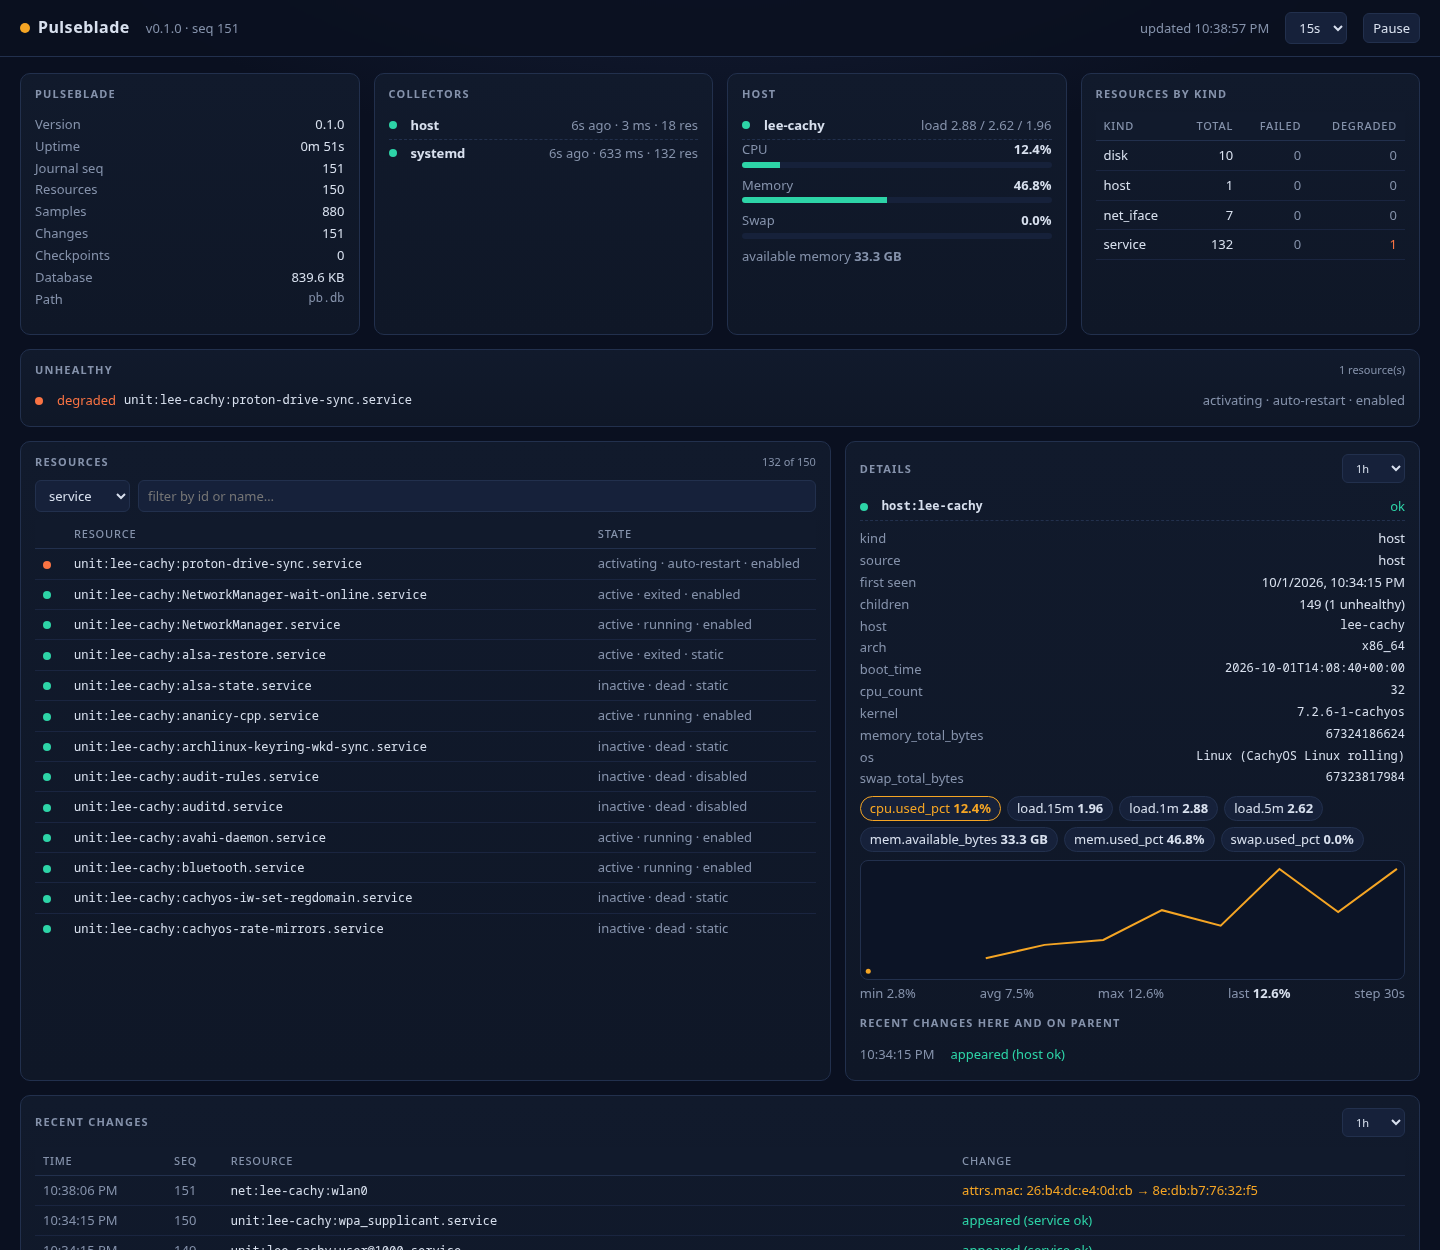
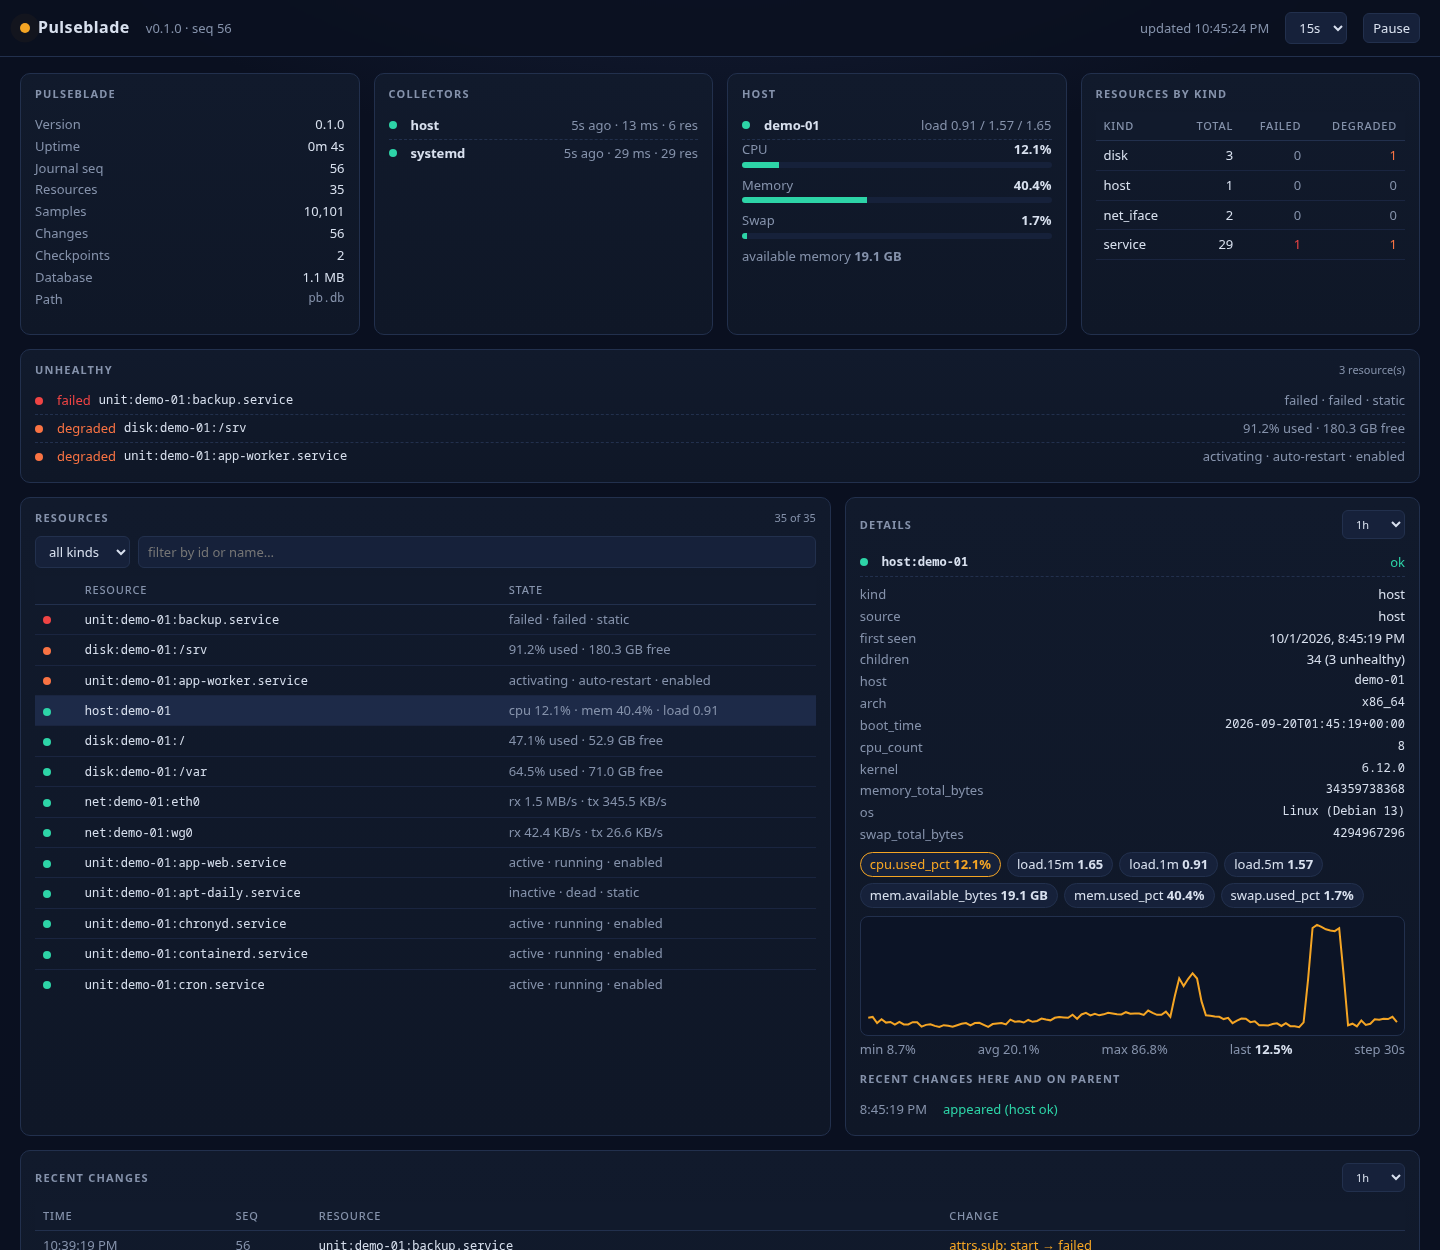
docs: replace dashboard screenshot with demo data
The previous screenshot showed a real machine. The new one is generated from examples/seed_demo; README documents how to reproduce it.

diff --git a/README.md b/README.md
@@ -117,9 +117,20 @@ The node serves a read-only, LLM-free view of the same data on its HTTP port, ne
 
 Errors are JSON `{"error": "..."}` with 400 for invalid input and 404 for unknown resources, metrics, checkpoints, or endpoints.
 
-![Pulseblade dashboard: collector status, host CPU and memory, counts by kind, unhealthy resources, a filterable resource table, resource details with a CPU sparkline, and recent changes](docs/assets/dashboard.png)
+![Pulseblade dashboard showing synthetic demo data for a fictional host demo-01: collector status, host CPU and memory, counts by kind, a failed backup service, a degraded disk and service, a filterable resource table, host details with a CPU sparkline, and recent changes](docs/assets/dashboard.png)
+
+*Synthetic demo data, not a real machine.*
 
 The dashboard shows collector status, host key metrics, counts by kind, unhealthy resources first, a filterable resource table, recent changes over a selectable window, and per-resource details with a sparkline of any metric. It refreshes every 15 seconds (pausable). Deep links work: `/?kind=service&q=ssh&select=unit:web1:sshd.service&metric=...`.
+
+To reproduce the screenshot, seed two hours of deterministic demo data (written through the normal store API, ending now) and serve it within a minute, before the collectors read as stale:
+
+```bash
+cargo run -p pulseblade --example seed_demo -- /tmp/pb-demo/pb.db
+cargo run -p pulseblade -- --db /tmp/pb-demo/pb.db node --no-collect --listen 127.0.0.1:7188
+chromium --headless --hide-scrollbars --virtual-time-budget=5000 --window-size=1440,1250 \
+  --screenshot=docs/assets/dashboard.png 'http://127.0.0.1:7188/?select=host:demo-01&metric=cpu.used_pct'
+```
 
 ### Remote access
 
